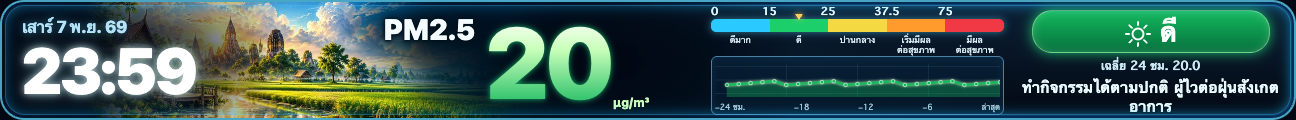
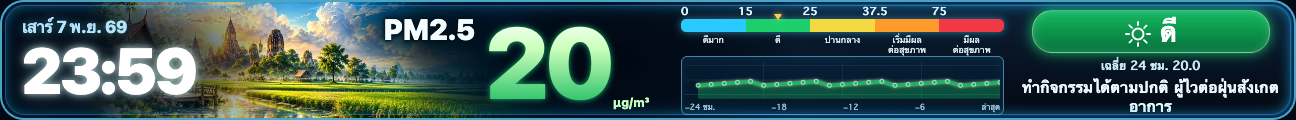
refine(pm25): widen LED scale and graph with number-safe layout

diff --git a/v2/pm25-live.html b/v2/pm25-live.html
@@ -131,7 +131,8 @@ html,body{width:100%;height:100%;margin:0;overflow:hidden;background:#020914}.bo
    These positions are on the 1296x120 board (3 board px = 1 LED px). */
 .pm-label{left:374px}
 .readout{left:484px}
-.right{left:704px;right:285px}
+/* More timeline width from the vacant space left of the chart; right edge stays fixed. */
+.right{left:var(--pm-chart-left,674px);right:285px}
 .inline-guidance{left:529px}
 .inline-guidance .badge{min-width:238px;min-height:38px;max-width:100%;font-size:23px;line-height:26px;padding:4px 10px}
 .board[data-tier="blue"] .inline-guidance .badge,
@@ -144,4 +145,4 @@ html,body{width:100%;height:100%;margin:0;overflow:hidden;background:#020914}.bo
  content:"";width:28px;height:28px;display:inline-block;vertical-align:middle;
  flex:none;margin-right:8px;background:url("./pm-status-sun-outline.svg") center/contain no-repeat;
 }
-</style></head><body><div class="board unavailable" id="board" style="--light:#cbd8e2;--dark:#778a9b;--shade:#495a69;--glow:#89adbb66"><div class="clock"><span class="date"></span><span class="time"></span></div><div class="scene"><img alt=""><video muted loop playsinline preload="metadata" aria-hidden="true"></video></div><div class="pm-label">PM2.5</div><div class="readout"><div class="number-line"><span class="number-shell"><span class="number">—</span></span><span class="unit">µg/m³</span></div><div class="inline-guidance"><span class="badge">รอข้อมูล</span><div class="avg-note" hidden></div><div class="advice">ไม่พบข้อมูลล่าสุด</div></div></div><div class="right"><div class="scale-wrap"><div class="scale-ticks"><span style="left:0%">0</span><span style="left:20%">15</span><span style="left:40%">25</span><span style="left:60%">37.5</span><span style="left:80%">75</span></div><span class="scale-arrow" hidden></span><div class="bar"><span class="blue"></span><span class="green"></span><span class="yellow"></span><span class="orange"></span><span class="red"></span></div></div><div class="limits"><span>ดีมาก</span><span>ดี</span><span>ปานกลาง</span><span>เริ่มมีผล<br>ต่อสุขภาพ</span><span>มีผล<br>ต่อสุขภาพ</span></div><div class="chart-frame"><svg class="trend-plot" viewBox="0 0 300 35" role="img" aria-label="กราฟค่าฝุ่นย้อนหลัง 24 ชั่วโมง"><defs><linearGradient id="fill" x1="0" y1="0" x2="0" y2="1"><stop offset="0%" stop-color="var(--light)" stop-opacity=".95"/><stop offset="100%" stop-color="var(--dark)" stop-opacity=".02"/></linearGradient></defs><path d="M0 3H300 M0 17H300 M0 31H300 M75 0V35 M150 0V35 M225 0V35" class="grid"/><g id="series"></g></svg><div class="graph-times"><span>−24 ชม.</span><span>−18</span><span>−12</span><span>−6</span><span>ล่าสุด</span></div></div></div></div><script src="pm25-tier.js?v=20261101-live-fix-3"></script><script src="pm25-live.js?v=20261107-owner-2"></script></body></html>
+</style></head><body><div class="board unavailable" id="board" style="--light:#cbd8e2;--dark:#778a9b;--shade:#495a69;--glow:#89adbb66"><div class="clock"><span class="date"></span><span class="time"></span></div><div class="scene"><img alt=""><video muted loop playsinline preload="metadata" aria-hidden="true"></video></div><div class="pm-label">PM2.5</div><div class="readout"><div class="number-line"><span class="number-shell"><span class="number">—</span></span><span class="unit">µg/m³</span></div><div class="inline-guidance"><span class="badge">รอข้อมูล</span><div class="avg-note" hidden></div><div class="advice">ไม่พบข้อมูลล่าสุด</div></div></div><div class="right"><div class="scale-wrap"><div class="scale-ticks"><span style="left:0%">0</span><span style="left:20%">15</span><span style="left:40%">25</span><span style="left:60%">37.5</span><span style="left:80%">75</span></div><span class="scale-arrow" hidden></span><div class="bar"><span class="blue"></span><span class="green"></span><span class="yellow"></span><span class="orange"></span><span class="red"></span></div></div><div class="limits"><span>ดีมาก</span><span>ดี</span><span>ปานกลาง</span><span>เริ่มมีผล<br>ต่อสุขภาพ</span><span>มีผล<br>ต่อสุขภาพ</span></div><div class="chart-frame"><svg class="trend-plot" viewBox="0 0 300 35" role="img" aria-label="กราฟค่าฝุ่นย้อนหลัง 24 ชั่วโมง"><defs><linearGradient id="fill" x1="0" y1="0" x2="0" y2="1"><stop offset="0%" stop-color="var(--light)" stop-opacity=".95"/><stop offset="100%" stop-color="var(--dark)" stop-opacity=".02"/></linearGradient></defs><path d="M0 3H300 M0 17H300 M0 31H300 M75 0V35 M150 0V35 M225 0V35" class="grid"/><g id="series"></g></svg><div class="graph-times"><span>−24 ชม.</span><span>−18</span><span>−12</span><span>−6</span><span>ล่าสุด</span></div></div></div></div><script src="pm25-tier.js?v=20261101-live-fix-3"></script><script src="pm25-live.js?v=20261107-graph-3"></script></body></html>

diff --git a/v2/pm25-live.js b/v2/pm25-live.js
@@ -33,10 +33,21 @@ function drawHistory(points){
 }
 function setNumber(value){
  const txt=Number.isInteger(value)?String(value):value.toFixed(1);$('.number').textContent=txt;$('.number').style.setProperty('--value-size',txt.length>4?'82px':txt.length>3&&!txt.includes('.')?'90px':txt.length>3&&value>=100?'95px':'100px');const shell=$('.number-shell'),num=$('.number');shell.style.width='max-content';const natural=num.offsetWidth,room=218-$('.unit').offsetWidth;if(natural>0&&room>0){num.style.setProperty('--number-scale',Math.min(1,room/natural));shell.style.width=Math.min(natural,room)+'px'}
+ // The main PM reading can be 3-4 digits. Protect the unit from the chart:
+ // default 674 board px expands the chart 30px, while large readings move
+ // its left edge only as far right as needed (12 board px/4 LED px clearance).
+ // The chart's right edge and the approved warning badge never move.
+ let chartLeft=674,unit=$('.unit');
+ if(typeof board.getBoundingClientRect==='function'&&typeof unit.getBoundingClientRect==='function'){
+  const boardRect=board.getBoundingClientRect(),scale=board.offsetWidth>0?boardRect.width/board.offsetWidth:1;
+  const unitRight=(unit.getBoundingClientRect().right-boardRect.left)/scale;
+  if(Number.isFinite(unitRight))chartLeft=Math.max(674,Math.ceil(unitRight+12));
+ }
+ board.style.setProperty('--pm-chart-left',chartLeft+'px');
 }
 function render(pm,history){
  const valid=pm&&pm.status==='latest'&&typeof pm.value==='number'&&Number.isFinite(pm.value)&&pm.value>=0&&pm.value<=1000;
- if(!valid){board.classList.add('unavailable');board.dataset.tier='';for(const key of ['light','dark','glow'])board.style.setProperty('--number-'+key,GREY[key]);$('.number').textContent='—';$('.badge').textContent='รอข้อมูล';$('.advice').textContent='ไม่พบข้อมูลล่าสุด';$('.avg-note').hidden=true;$('.scale-arrow').hidden=true;video.pause();drawHistory(history);return}
+ if(!valid){board.style.setProperty('--pm-chart-left','674px');board.classList.add('unavailable');board.dataset.tier='';for(const key of ['light','dark','glow'])board.style.setProperty('--number-'+key,GREY[key]);$('.number').textContent='—';$('.badge').textContent='รอข้อมูล';$('.advice').textContent='ไม่พบข้อมูลล่าสุด';$('.avg-note').hidden=true;$('.scale-arrow').hidden=true;video.pause();drawHistory(history);return}
 
  const value=Math.round(pm.value*10)/10;setNumber(value); /* big number: hourly, unchanged */
  /* Tier from the 24h average. observedAt is the source-observation time; the

diff --git a/v2/index.html b/v2/index.html
@@ -531,7 +531,7 @@ html.led-screen .scale>div,html.led-screen .scale>iframe{transform:none!importan
 </head>
 <body><main><h1>UTH LED · Environmental Widgets — Live Preview</h1>
 <p>ทั้งสามแถบมีขนาด 432 × 40 CSS px • PM2.5 อ้างอิงข้อมูล GISTDA ระดับตำบล (ไม่ใช่เซนเซอร์ รพ.) • อุณหภูมิและพยากรณ์ฝนมาจากแบบจำลอง Open-Meteo • ระดับน้ำอ่านสถานีอ้างอิง ThaiWater/HII จริง (ไม่ใช่เครื่องวัดระดับน้ำหน้า รพ.) • ไม่มีการนำข้อมูลสมมติมาแสดงเป็นค่าปัจจุบัน</p>
-<article><h2>1. PM2.5 — ปรับให้ใกล้ภาพอ้างอิง พร้อมมาสคอต 3D</h2><div class="stage-wrap"><div class="scale"><iframe class="ledframe" id="pm-live-frame" title="PM2.5 รายชั่วโมงและแนวโน้มย้อนหลัง" src="./pm25-live.html?v=20261107-owner-2"></iframe><div class="stage" id="pm" style="display:none">
+<article><h2>1. PM2.5 — ปรับให้ใกล้ภาพอ้างอิง พร้อมมาสคอต 3D</h2><div class="stage-wrap"><div class="scale"><iframe class="ledframe" id="pm-live-frame" title="PM2.5 รายชั่วโมงและแนวโน้มย้อนหลัง" src="./pm25-live.html?v=20261107-graph-3"></iframe><div class="stage" id="pm" style="display:none">
 <div class="clock"><div class="d">พ. 21 ต.ค. 69</div><div class="t">07:45</div></div>
 <div class="seg pm-core"><div class="mascot" data-masked="0">
 <img data-base src="../assets/icons3d/rig/pm-base-unavailable.png" alt="">

diff --git a/index.html b/index.html
@@ -16,7 +16,7 @@ body{width:432px;height:40px}
 </head><body>
 <main class="uth-led" aria-label="บอร์ดสิ่งแวดล้อมโรงพยาบาลอุทัย">
 <iframe title="PM2.5 อากาศ และระดับน้ำ — แถบ LED ขนาด 432×40 เปลี่ยนหน้าทุก 22 วินาที"
-src="./v2/index.html?display=led&amp;v=20261107-owner-2" loading="eager" referrerpolicy="strict-origin-when-cross-origin"></iframe>
+src="./v2/index.html?display=led&amp;v=20261107-graph-3" loading="eager" referrerpolicy="strict-origin-when-cross-origin"></iframe>
 </main>
 <noscript>กรุณาเปิด JavaScript เพื่อแสดงข้อมูลล่าสุด</noscript>
 </body></html>

diff --git a/docs/work-orders/WO-LED-THREE-PAGE-ALIGNED-BADGES-20261107.md b/docs/work-orders/WO-LED-THREE-PAGE-ALIGNED-BADGES-20261107.md
@@ -73,6 +73,21 @@ Google Sheets/bound Apps Script, backend/fallback changes or fixture data in Pro
 - No Production release until independent exact-SHA review, required CI and PR
   dependency/ownership gates are satisfied.
 
+## Owner final PM chart adjustment — 2026-11-07 15:36 UTC
+- The owner approved all 3 screens and requested only a minor final PM
+  color-scale + 24h graph horizontal expansion.
+- On native 432x40 LED, existing chart left x=235.33px and width=101px.
+  Normal values move left edge 10 LED px left (704 to 674 board px),
+  enlarge graph to about 111px, preserving right edge and the status badge.
+- Wide-number 1000 micrograms/m3 had unit end x=235.47px touching old
+  chart at x=235.33px. Display-only CSS variable repositions chart at least
+  4 LED px after rendered unit when the reading is wider. Values, health
+  thresholds, time, provenance, freshness and historical trends unchanged.
+- The real production PM renderer receives only SIMULATED fixtures in QA:
+  5 tiers, unavailable, plus 100/999.9/1000 wide values.
+- No Weather or Water geometry changes authorized here. Merge under PR #95
+  dependency and independent review/CI, not directly into Production.
+
 ## Merge/release gate & rollback
 1. Freeze exact branch HEAD, inspect PR diff/asset footprint.
 2. Independent review at PR #95 HEAD plus integrated candidate exact SHA.

diff --git a/docs/led-aligned-review-20261107/README.md b/docs/led-aligned-review-20261107/README.md
@@ -49,3 +49,11 @@ Evidence: owner-feedback-browser-qa.json and water-ink-verification.json.
 The original green/blue emoji sun was replaced with a minimal white SVG outline.
 The last Water clock glyph was formerly clipped because it extended beyond the
 clock's overflow:hidden boundary; it now renders atop decorative layers.
+
+## Final PM chart widening (owner feedback 2026-11-07)
+SIMULATED QA ONLY: Updated pm-owner-*-432x40.png screenshots show production
+PM renderer with wider color scale/24h chart and unchanged badge right edge.
+The owner-feedback-browser-qa.json file includes coordinates and edge values
+100/999.9/1000. The pm-graph-wide-1000-432x40.png test image shows adaptive
+fallback clearing the four-digit hourly number and unit.
+All 3 screens owner-approved. This is a PM-only visual correction.
